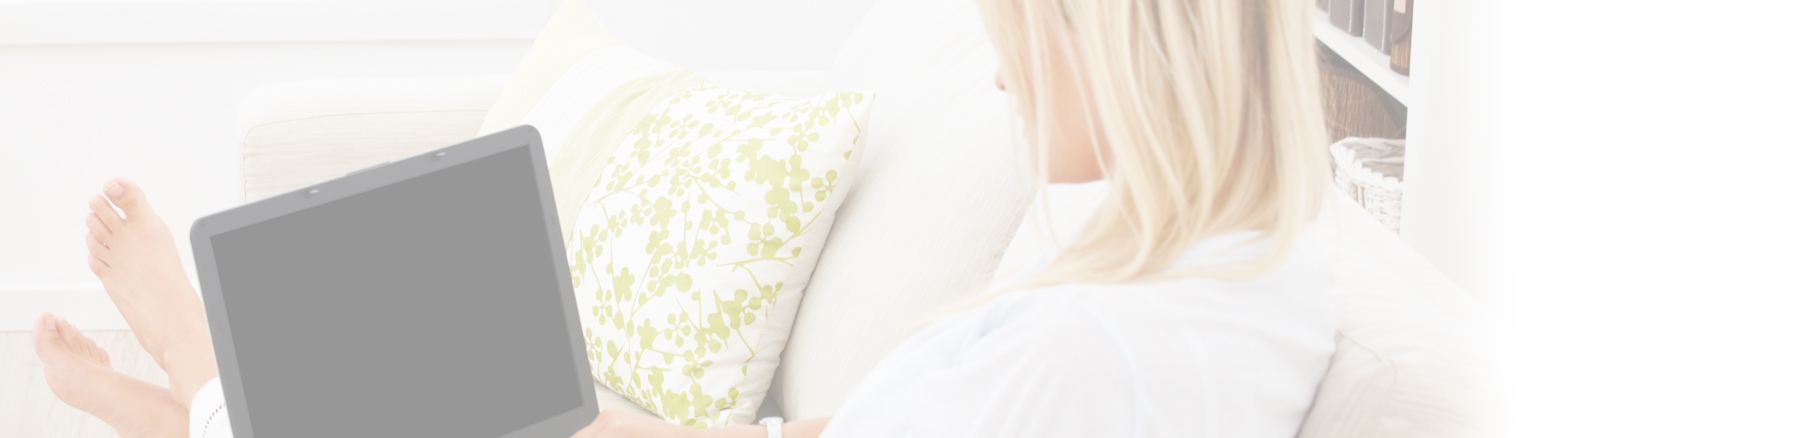
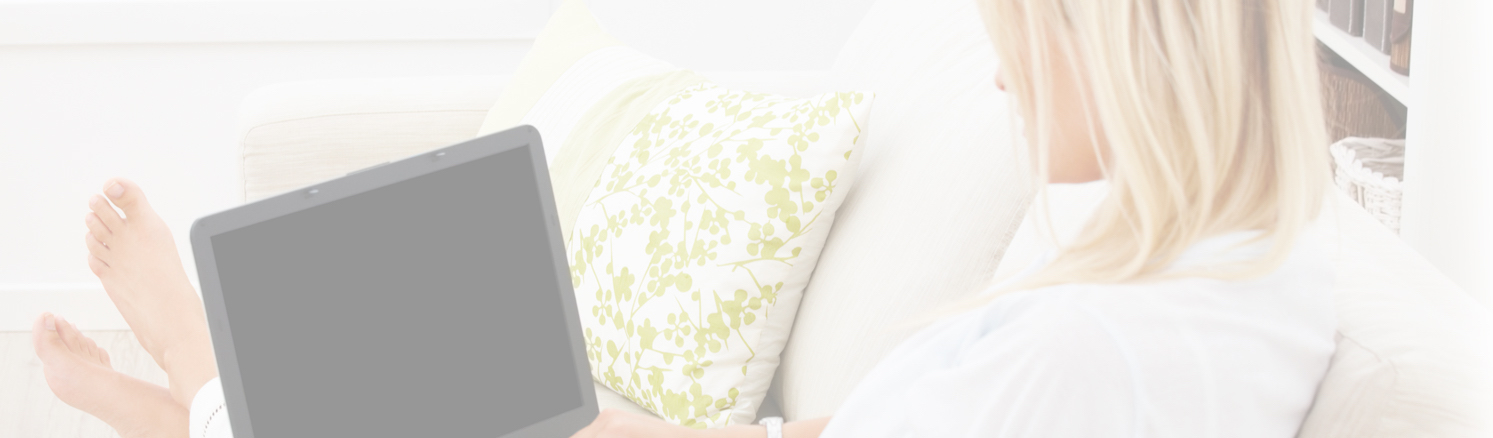
完成 Showcase

diff --git a/app/index.html b/app/index.html
@@ -28,30 +28,59 @@
         </button>
         <a class="navbar-brand" href="#">SkyApp</a>
       </div>
-    
+
       <!-- Collect the nav links, forms, and other content for toggling -->
       <div class="collapse navbar-collapse navbar-ex1-collapse">
         <ul class="nav navbar-nav">
-          <li class="active"><a href="#">Home</a></li>
-          <li><a href="about.html">About</a></li>
-          <li><a href="services.html">Service</a></li>
-          <li><a href="blog.html">Blog</a></li>
-          <li><a href="contact.html">Contact</a></li>
+          <li class="active"><a href="#">Home</a>
+          </li>
+          <li><a href="about.html">About</a>
+          </li>
+          <li><a href="services.html">Service</a>
+          </li>
+          <li><a href="blog.html">Blog</a>
+          </li>
+          <li><a href="contact.html">Contact</a>
+          </li>
         </ul>
         <ul class="nav navbar-nav navbar-right">
-          <li><a href="#">Register</a></li>
-          <li><a href="#">Login</a></li>
+          <li><a href="#">Register</a>
+          </li>
+          <li><a href="#">Login</a>
+          </li>
         </ul>
-      </div><!-- /.navbar-collapse -->
+      </div>
+      <!-- /.navbar-collapse -->
     </nav>
   </header>
 
-<!--   <div class="container">
-    <h1><i class="fa fa-camera-retro"></i> Hi, Compass!!</h1>
-    <h1><a href="#">嗨！我來囉！</a></h1>
-  </div>
- -->
-  
+  <!-- Show case -->
+  <section class="section-showcase">
+    <div class="container showcase-content">
+      <h1>Bootstrap HTML5/CSS3 Template</h1>
+      <p class="lead">
+        A clean and versatile <strong>Bootstrap 3</strong> theme <br>
+        A responsive design for your business and products
+      </p>
+      <div>
+        <a href="#"><img src="img/btn-download.png" alt="Download">
+        </a>
+        <a href="#"><img src="img/btn-appstore.png" alt="Download">
+        </a>
+      </div>
+    </div>
+  </section>
+
+  <!-- Search Our Website & Products -->
+
+  <!-- Product features -->
+
+  <!-- ??? -->
+
+  <!-- Platforms and Devices -->
+
+  <!-- Download for Trial -->
+
   <footer class="footer-main">
     <div class="container">
       <div class="row">
@@ -59,11 +88,16 @@
         <div class="col-md-4">
           <h4>Get The SkyAPP</h4>
           <ul>
-            <li class="app-appstore"><a href="#">App Store</a></li>
-            <li class="app-play"><a href="#">Google Play Store</a></li>
-            <li class="app-android"><a href="#">Android Market</a></li>
-            <li class="app-windows"><a href="#">Windows</a></li>
-            <li class="app-chrome"><a href="#">Google Chrome Store</a></li>
+            <li class="app-appstore"><a href="#">App Store</a>
+            </li>
+            <li class="app-play"><a href="#">Google Play Store</a>
+            </li>
+            <li class="app-android"><a href="#">Android Market</a>
+            </li>
+            <li class="app-windows"><a href="#">Windows</a>
+            </li>
+            <li class="app-chrome"><a href="#">Google Chrome Store</a>
+            </li>
           </ul>
         </div>
 
@@ -71,11 +105,16 @@
         <div class="col-md-4">
           <h4>About</h4>
           <ul>
-            <li><a href="#">What is SkyApp?</a></li>
-            <li><a href="#">View Our Products</a></li>
-            <li><a href="#">Advertise with Us</a></li>
-            <li><a href="#">Careers</a></li>
-            <li><a href="#">Web Development</a></li>
+            <li><a href="#">What is SkyApp?</a>
+            </li>
+            <li><a href="#">View Our Products</a>
+            </li>
+            <li><a href="#">Advertise with Us</a>
+            </li>
+            <li><a href="#">Careers</a>
+            </li>
+            <li><a href="#">Web Development</a>
+            </li>
           </ul>
         </div>
 
@@ -83,10 +122,14 @@
         <div class="col-md-4">
           <h4>Support</h4>
           <ul>
-            <li><a href="#">Support Home</a></li>
-            <li><a href="#">Our Community</a></li>
-            <li><a href="#">Send A Ticket</a></li>
-            <li><a href="#">Contact Us</a></li>
+            <li><a href="#">Support Home</a>
+            </li>
+            <li><a href="#">Our Community</a>
+            </li>
+            <li><a href="#">Send A Ticket</a>
+            </li>
+            <li><a href="#">Contact Us</a>
+            </li>
           </ul>
         </div>
       </div>

diff --git a/app/scss/layouts/_nav.scss b/app/scss/layouts/_nav.scss
@@ -2,23 +2,12 @@
 /* Navbar */
 
 .navbar{
-	// width: 90%;
-	// margin: auto;
-// 	@include add-border(1px, #e7e7e7, 'right-left');
-	// border-color:#e7e7e7;
-// 	min-height:60px;
 	background: #fff;
 	margin-bottom: 30px;
 	
 	a {
 		color: $primary-color !important;
 		font-size: 1em;
-		// letter-spacing:-0.5px;
-		// padding: 1em 1em !important;
-		// &:hover {
-		// 	font-size: 1.2em;
-		// 	font-weight: bold;
-		// }
 	}
 	
 }

diff --git a/app/scss/modules/_sections.scss b/app/scss/modules/_sections.scss
@@ -4,12 +4,12 @@ section{
 	padding:30px 0;
 }
 
-.section-showcase{
+.section-showcase {
 	height:$showcase-height;
 	background:url($showcase-image) no-repeat top center;
 	
 	.showcase-content{
-		padding:110px 15px;
+		padding:50px 0;
 		text-align:center;
 	}
 	

diff --git a/Gruntfile.js b/Gruntfile.js
@@ -327,6 +327,7 @@ module.exports = function (grunt) {
             'img/{,*/}*.webp',
             '{,*/}*.html',
             'fonts/{,*/}*.*',
+            'font-awesome/{,*/}*.*',
             'css/fonts/{,*/}*.*'
           ]
         }, {

diff --git a/app/scss/base/_variables.scss b/app/scss/base/_variables.scss
@@ -15,5 +15,5 @@ $dark-color:#2b5464;
 
 /* Showcase Area */
 
-$showcase-height:400px;
-$showcase-image:'../img/showcase.jpg';
+$showcase-height:438px;
+$showcase-image:'../img/showcase-2.jpg';
